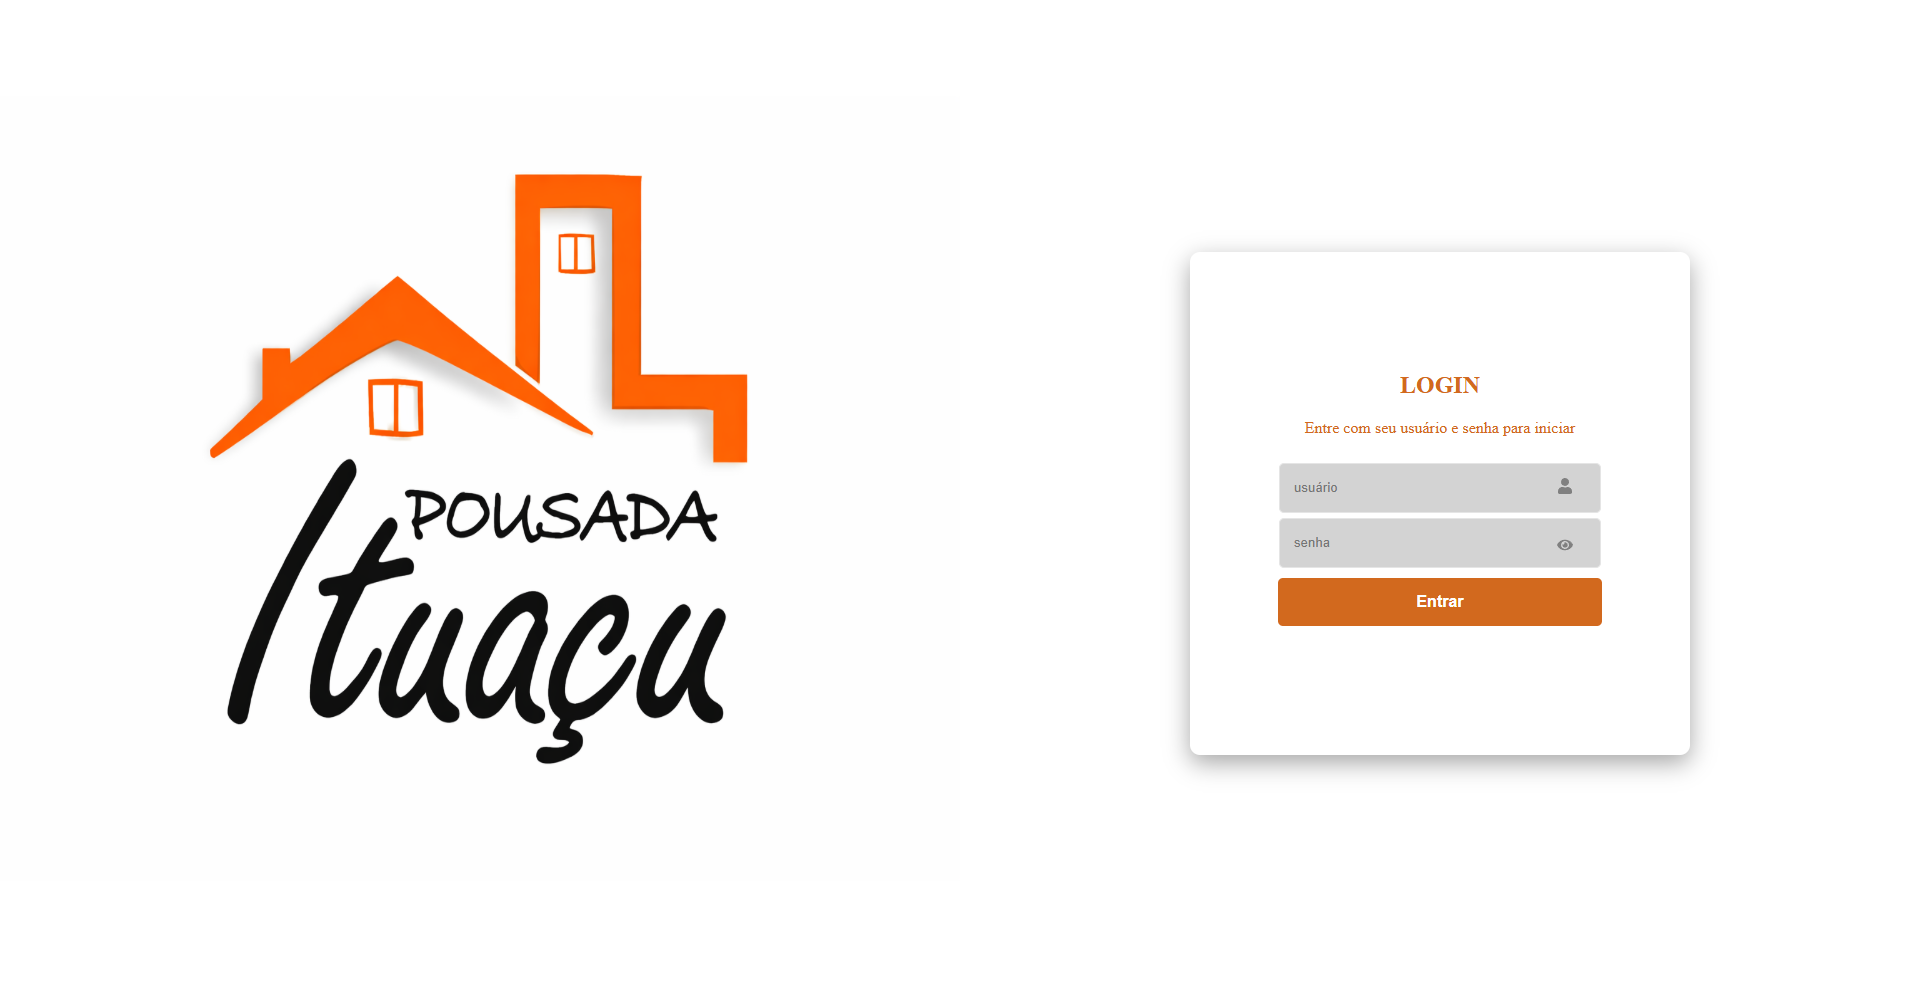
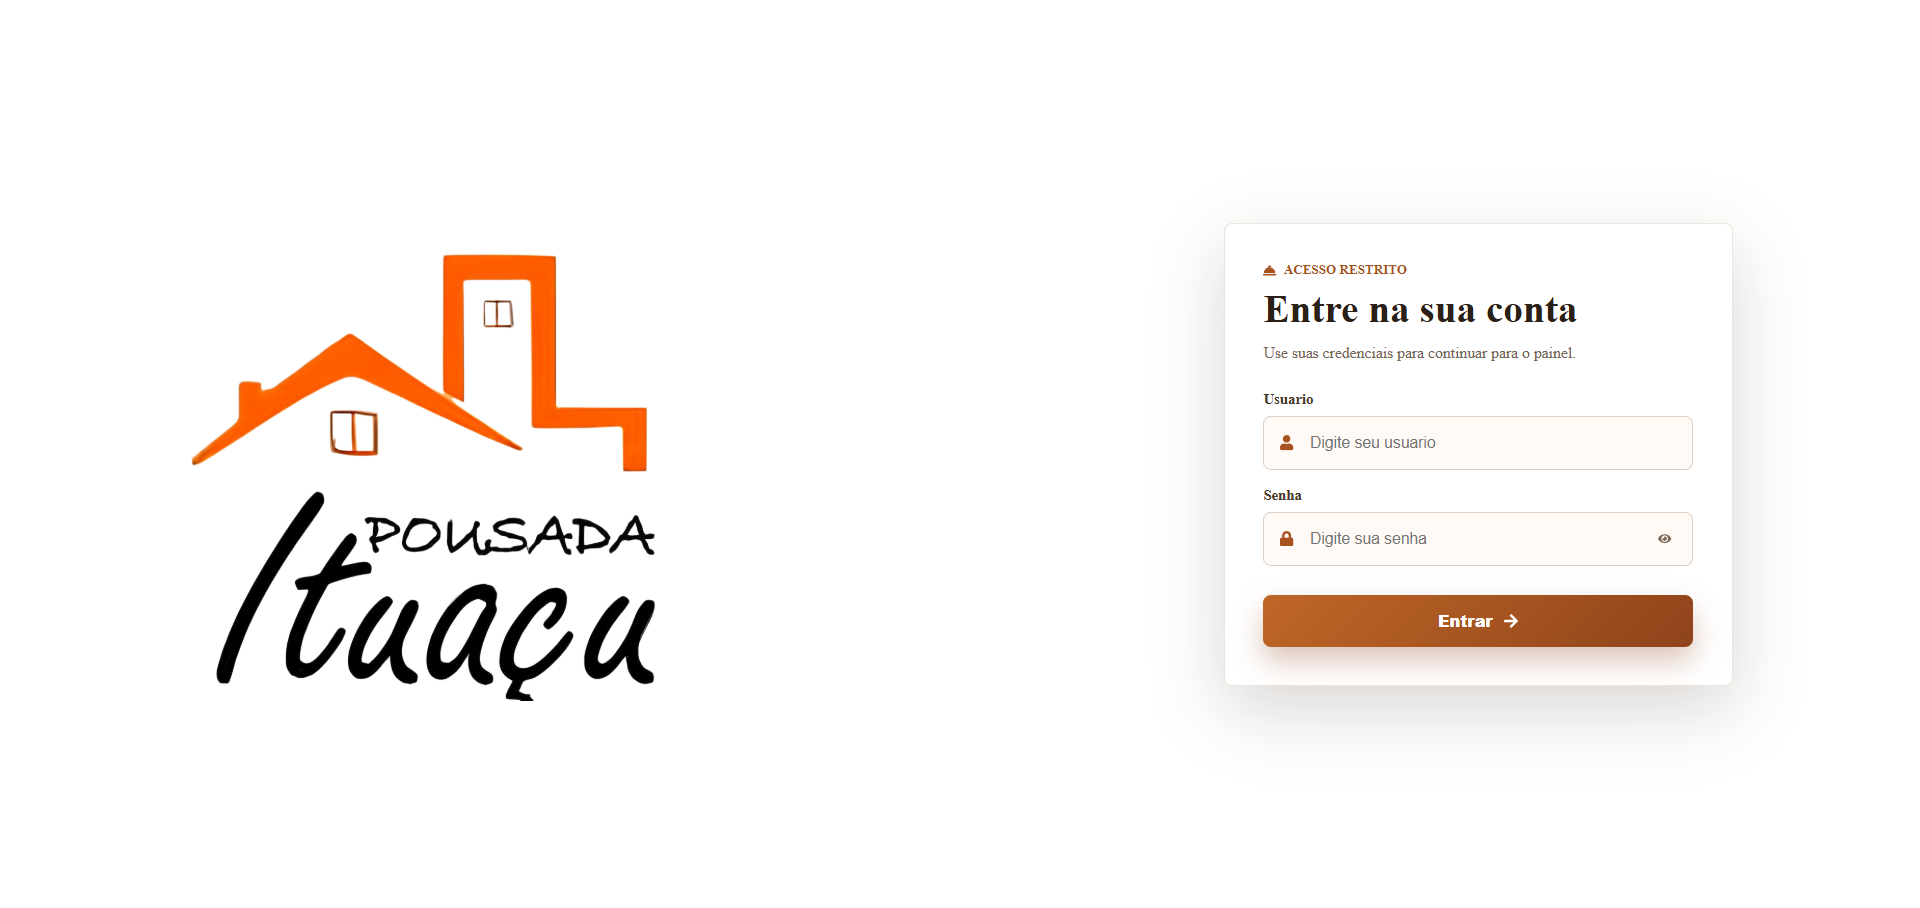
mudanças das imagens de pousada e admin jg

Changed region(s): [[0.0938, 0.1542, 0.4062, 0.7709], [0.625, 0.2775, 0.9062, 0.7709], [0.6562, 0.2775, 0.8438, 0.4317]]

diff --git a/src/components/Projects/ProjectsSection.tsx b/src/components/Projects/ProjectsSection.tsx
@@ -22,7 +22,7 @@ export default function ProjectsSection() {
     {
       title: "Admin JG",
       description: t("Projects.items.admin_jg"),
-      cover: "/adminJG.png",
+      cover: "/jg.png",
       href: "https://admin-jg.vercel.app/",
       github: "https://github.com/Gervasss/Gerencia-JG-case-study",
       tags: ["React", "UI", "Docs", "Automação", "typescript"],